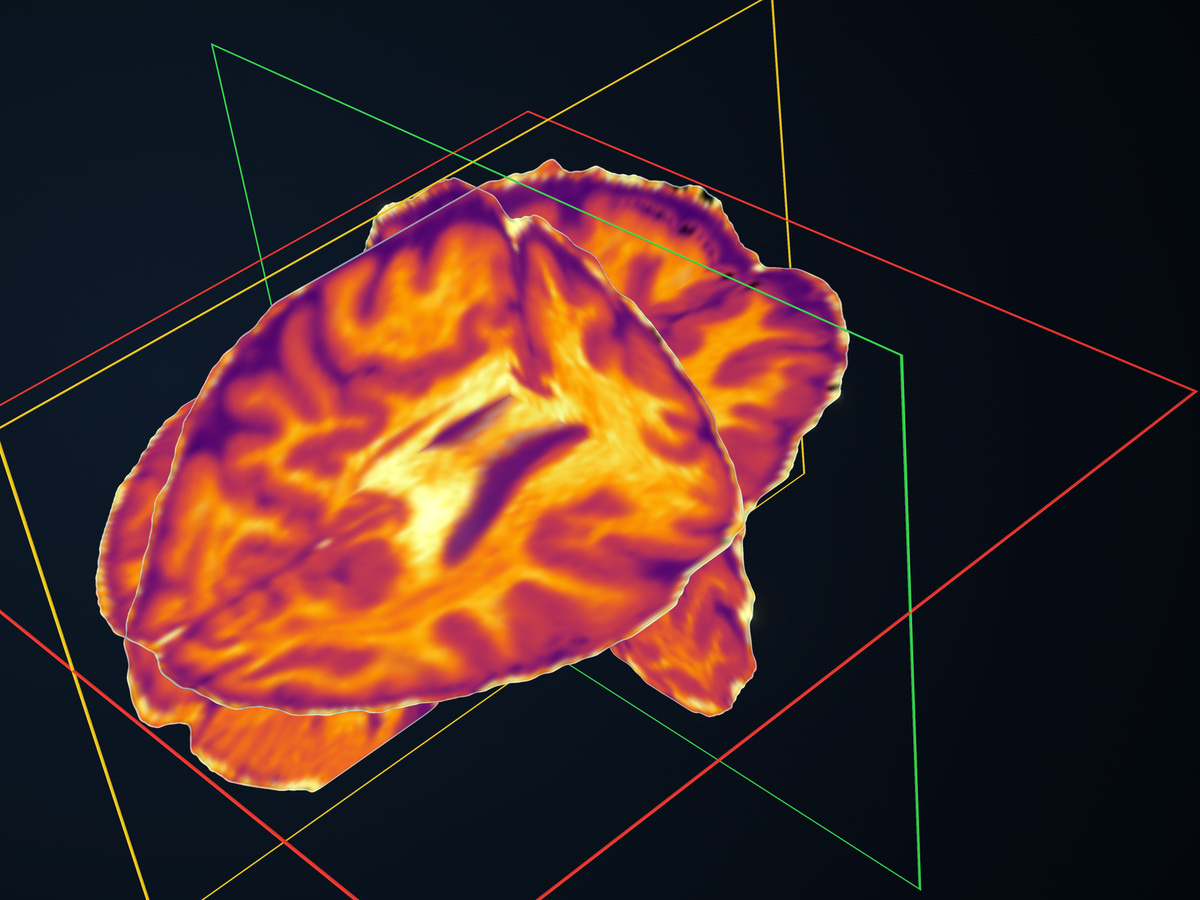
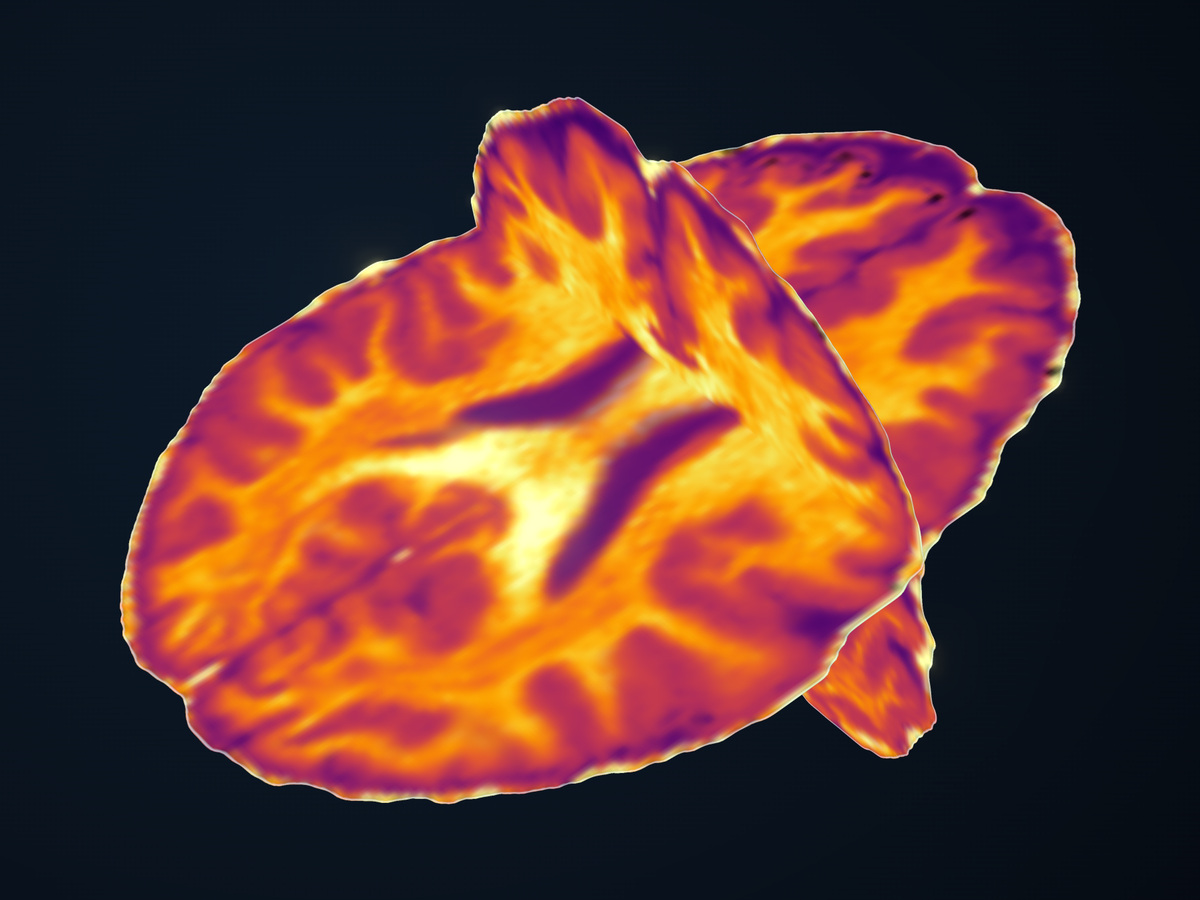
Site: slice maps on an axial and a coronal plane without frame lines; six-route figure sizes
The seven slice tiles are new renders in one shared view (user: the frame lines were too
bright). Alt texts, the route and run-time image sizes and the route caption follow the
new files; SPEC Addendum 5 records the change.

diff --git a/docs/site/index.html b/docs/site/index.html
@@ -142,7 +142,7 @@
     <p class="intro">Data: EDDEN sub-01 (OpenNeuro ds004666, CC0), AVG_mag series. The series averages five repeated acquisitions, so its SNR is higher than a typical single scan. Six images come from the film’s run (b = 0 and b ≈ 1000; 117 of 297 volumes). The others come from runs of 23 October 2026 on the same Mac: UKF on the same input; the multi-shell methods on b = 0, 1000 and 2000 (207 of 297 volumes).</p>
     <div class="gallery">
       <article class="tile">
-        <img src="assets/img/res-dec.jpg" width="1200" height="900" loading="lazy" alt="DEC map on three planes">
+        <img src="assets/img/res-dec.jpg" width="1200" height="900" loading="lazy" alt="DEC map on an axial and a coronal plane">
         <div class="tile-body">
           <p class="chip"><span class="chip-name">DTI</span> · <span class="chip-q">microstructure</span></p>
           <h3>Direction-encoded colour</h3>
@@ -150,7 +150,7 @@
         </div>
       </article>
       <article class="tile">
-        <img src="assets/img/res-fw.jpg" width="1200" height="900" loading="lazy" alt="Free-water fraction on three planes">
+        <img src="assets/img/res-fw.jpg" width="1200" height="900" loading="lazy" alt="Free-water fraction on an axial and a coronal plane">
         <div class="tile-body">
           <p class="chip"><span class="chip-name">Free water</span> · <span class="chip-q">microstructure</span></p>
           <h3>Free-water fraction</h3>
@@ -158,7 +158,7 @@
         </div>
       </article>
       <article class="tile">
-        <img src="assets/img/res-ndi.jpg" width="1200" height="900" loading="lazy" alt="NODDI neurite density on three planes">
+        <img src="assets/img/res-ndi.jpg" width="1200" height="900" loading="lazy" alt="NODDI neurite density on an axial and a coronal plane">
         <div class="tile-body">
           <p class="chip"><span class="chip-name">NODDI</span> · <span class="chip-q">microstructure</span></p>
           <h3>Neurite density</h3>
@@ -166,7 +166,7 @@
         </div>
       </article>
       <article class="tile">
-        <img src="assets/img/res-mk.jpg" width="1200" height="900" loading="lazy" alt="DKI mean kurtosis on three planes">
+        <img src="assets/img/res-mk.jpg" width="1200" height="900" loading="lazy" alt="DKI mean kurtosis on an axial and a coronal plane">
         <div class="tile-body">
           <p class="chip"><span class="chip-name">DKI</span> · <span class="chip-q">microstructure</span></p>
           <h3>Mean kurtosis</h3>
@@ -174,7 +174,7 @@
         </div>
       </article>
       <article class="tile">
-        <img src="assets/img/res-mkcurve.jpg" width="1200" height="900" loading="lazy" alt="MK-Curve mean kurtosis on three planes">
+        <img src="assets/img/res-mkcurve.jpg" width="1200" height="900" loading="lazy" alt="MK-Curve mean kurtosis on an axial and a coronal plane">
         <div class="tile-body">
           <p class="chip"><span class="chip-name">MK-Curve</span> · <span class="chip-q">microstructure</span></p>
           <h3>Mean kurtosis, MK-Curve</h3>
@@ -374,9 +374,9 @@
     <h2>Which route when.</h2>
     <figure class="panel shot fig">
       <a href="assets/img/fig-route-guide.png" target="_blank" rel="noopener" aria-label="Open the full-size route guide">
-        <img src="assets/img/fig-route-guide.png" width="2400" height="1280" loading="lazy" decoding="async" alt="Route guide. Panel a: a grid of the products in five columns (microstructure, anatomy, tractography, bundles, connectome) with arrows for the inputs each one reads; outlines mark default, optional and partial routes. Panel b: three example routes on the same grid, with the selected products filled.">
+        <img src="assets/img/fig-route-guide.png" width="2400" height="1713" loading="lazy" decoding="async" alt="Route guide. Panel a: a grid of the products in five columns (microstructure, anatomy, tractography, bundles, connectome) with arrows for the inputs each one reads; outlines mark default, optional and partial routes. Panel b: six example routes on the same grid, with the selected products filled.">
       </a>
-      <figcaption>Which methods each acquisition and input allows (including the b-value limit for DKI), with three example routes. Built from the planner and method code and the documented dependencies; status is recorded for Linux test subjects.</figcaption>
+      <figcaption>Which methods each acquisition and input allows (including the b-value limit for DKI), with six example routes. Built from the planner and method code and the documented dependencies; status is recorded for Linux test subjects.</figcaption>
     </figure>
   </div>
 </section>
@@ -609,7 +609,7 @@ python3 scripts/stage_slicer_extension.py \
     <h2>Recorded run times, per module.</h2>
     <figure class="panel shot fig">
       <a href="assets/img/fig-runtime-resources.png" target="_blank" rel="noopener" aria-label="Open the full-size run-time figure">
-        <img src="assets/img/fig-runtime-resources.png" width="2400" height="1668" loading="lazy" decoding="async" alt="Dot plots on a log time scale. Panel a: recorded run time per module on Linux, GPU runs marked. Panel b: run time before and after seven code-path changes, one pair per row.">
+        <img src="assets/img/fig-runtime-resources.png" width="2400" height="1676" loading="lazy" decoding="async" alt="Dot plots on a log time scale. Panel a: recorded run time per module on Linux, GPU runs marked. Panel b: run time before and after seven code-path changes, one pair per row.">
       </a>
       <figcaption>Log scale, one scoped measurement per row; rows are not summed. Panel a: recorded run time per module on Linux, GPU runs marked. Panel b: before and after seven code-path changes, one pair per row, on a shared Linux host; outputs match. SAF re-filters 100,000 existing tracks (no new initial tracking); TractCloud ran on 50,000 tracks.</figcaption>
     </figure>

diff --git a/docs/website/SPEC.md b/docs/website/SPEC.md
@@ -37,6 +37,11 @@ unchanged. Second pass, same day (layout, for a shorter page): the reference lis
 section padding and some inner margins are smaller (§4). Images, `<img>` attributes and the two figures are
 unchanged. §7.2 item 8 checks the reference links.
 
+Addendum 5, 24 October 2026: the seven slice maps in `#outputs` are new renders (§3; user request: the plane frame
+lines were too bright). They show an axial and a coronal plane without frame lines, in one shared view. Their alt
+texts say “on an axial and a coronal plane”. The route figure now has six example routes, and both figure PNGs have
+new heights (route 2400×1713, run time 2400×1676).
+
 Date: 2026-10-20 (v2: fixes from the Opus spec review, round 1, listed in §9). Branch: `gh-pages` (orphan) of `ChengjinLii/SlicerDDSurfer`. Facts: [`FACTS.md`](FACTS.md) (cited
 below as `[F<section>]`). The site makes no claim that is not in `FACTS.md`, except in the parts added on 23 October
 2026 (§5.6.1, §5.6a, §5.10, §5.10a, §5.10b, and the performance section). Those parts have their own sources, named in
@@ -131,10 +136,10 @@ and `loading="lazy"`. (The poster is the `<video poster>`, not an `<img>`.)
 
 Result tiles (`res-*.jpg`, 1200×900, progressive), rendered in the film's look by `P/film/gallery.js` and cropped
 and resized by `P/tools/make_site_tiles.py` (sources and SHA-256 in `P/renders/site_tiles/tiles.json`):
-- the seven three-plane maps (`res-dec`, `res-fw`, `res-ndi`, `res-mk`, `res-mkcurve`, `res-tissue`, `res-parcel`):
-  3840×2160 stills with the film's state at 22.8 s (camera, plane positions, rim, background, bloom, vignette;
-  `?look=film`), plane frames in red (axial), green (coronal) and yellow (sagittal) at full strength, crop
-  1630,310,3710,1870 (the DEC frame's box × 2), JPEG quality 94, 4:4:4. The inside of the brain is as sharp as the
+- the seven slice maps (`res-dec`, `res-fw`, `res-ndi`, `res-mk`, `res-mkcurve`, `res-tissue`, `res-parcel`):
+  3840×2160 stills in the film's look (`?look=film`) with one shared view: an axial and a coronal plane, the sagittal
+  plane hidden, no plane frame lines (`frame=0&hide=0&cam=235,38,470,0,4,0,30,0.1,-0.02`; the full query is in
+  `tiles.json` `view`), crop 1398,440,3202,1794 (the union box of the seven brains), resized to 1200×900 with Lanczos. The inside of the brain is as sharp as the
   exported volumes allow (about 280 voxels across, trilinear sampling); no sharpening is applied;
 - tracts, bundles and networks: 1600×1200 stills, crop 50,37,1550,1162, JPEG quality 84.
 Nothing is drawn on the data except the plane frames. The
@@ -338,7 +343,7 @@ Two columns: text left, `idea.jpg` right.
 
 - Eyebrow “Choosing routes”, H2 “Which route when.”, then `fig-route-guide.png` in a panel, wrapped in a link
   to the full-size file (`target="_blank" rel="noopener"`), with `width`, `height`, `loading="lazy"`, `decoding="async"`.
-- Caption: “Which methods each acquisition and input allows (including the b-value limit for DKI), with three example
+- Caption: “Which methods each acquisition and input allows (including the b-value limit for DKI), with six example
   routes. Built from the planner and method code and the documented dependencies; status is recorded for Linux test
   subjects.” The caption must not say that a single-shell scan can use CSD/ACT.
 
